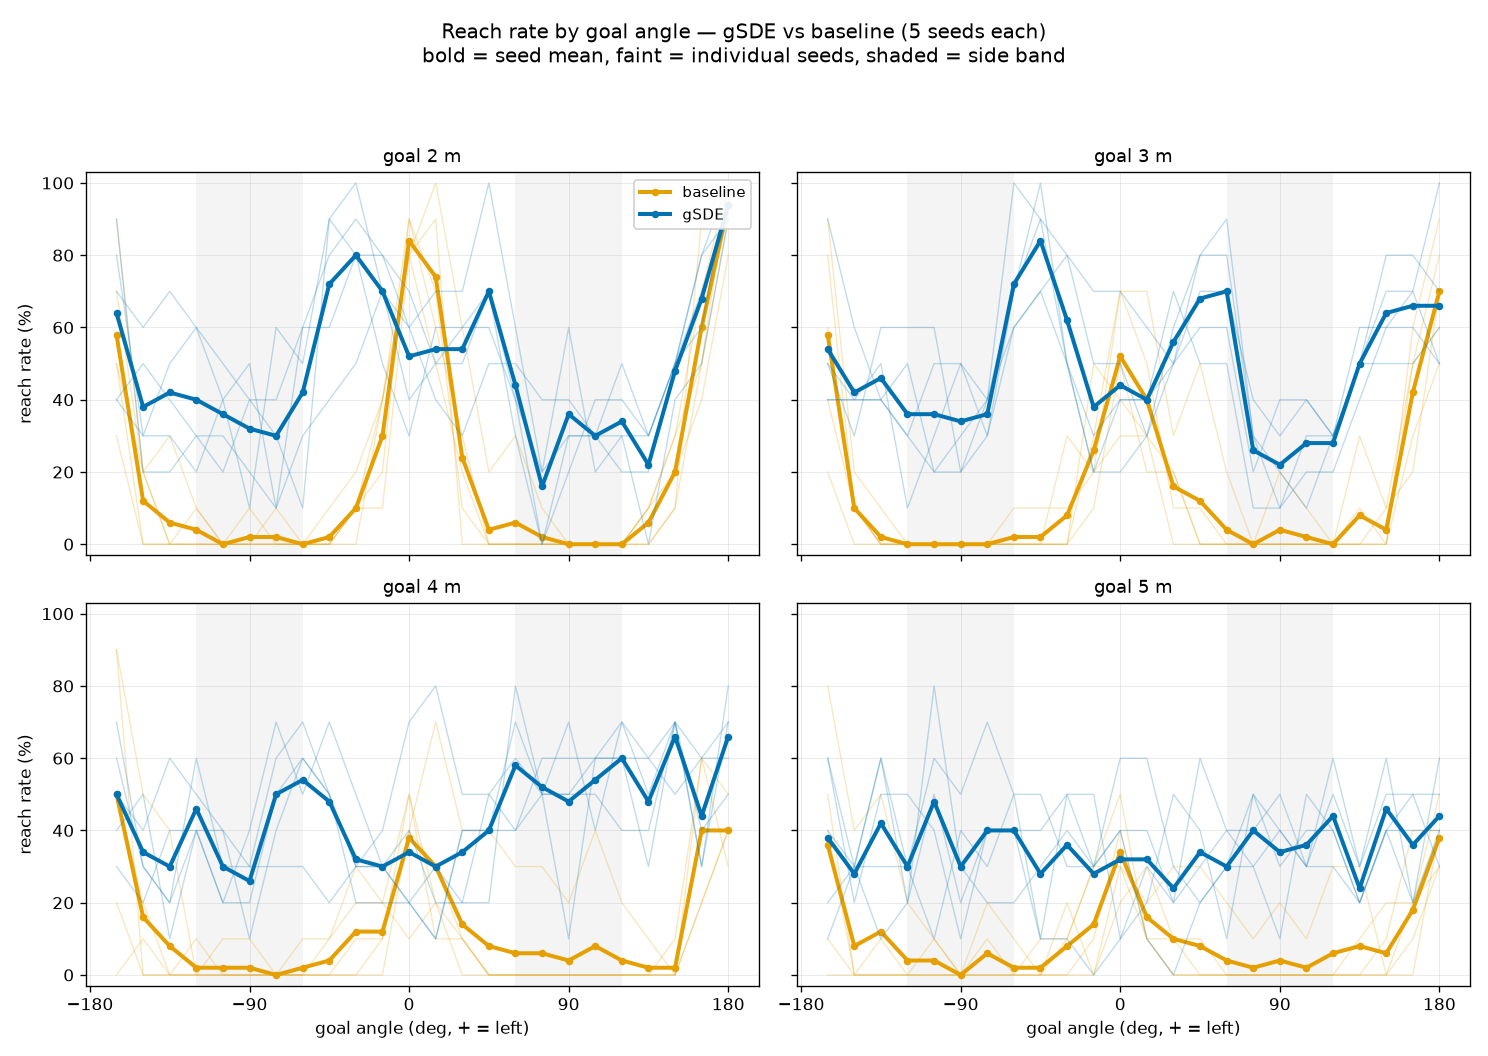
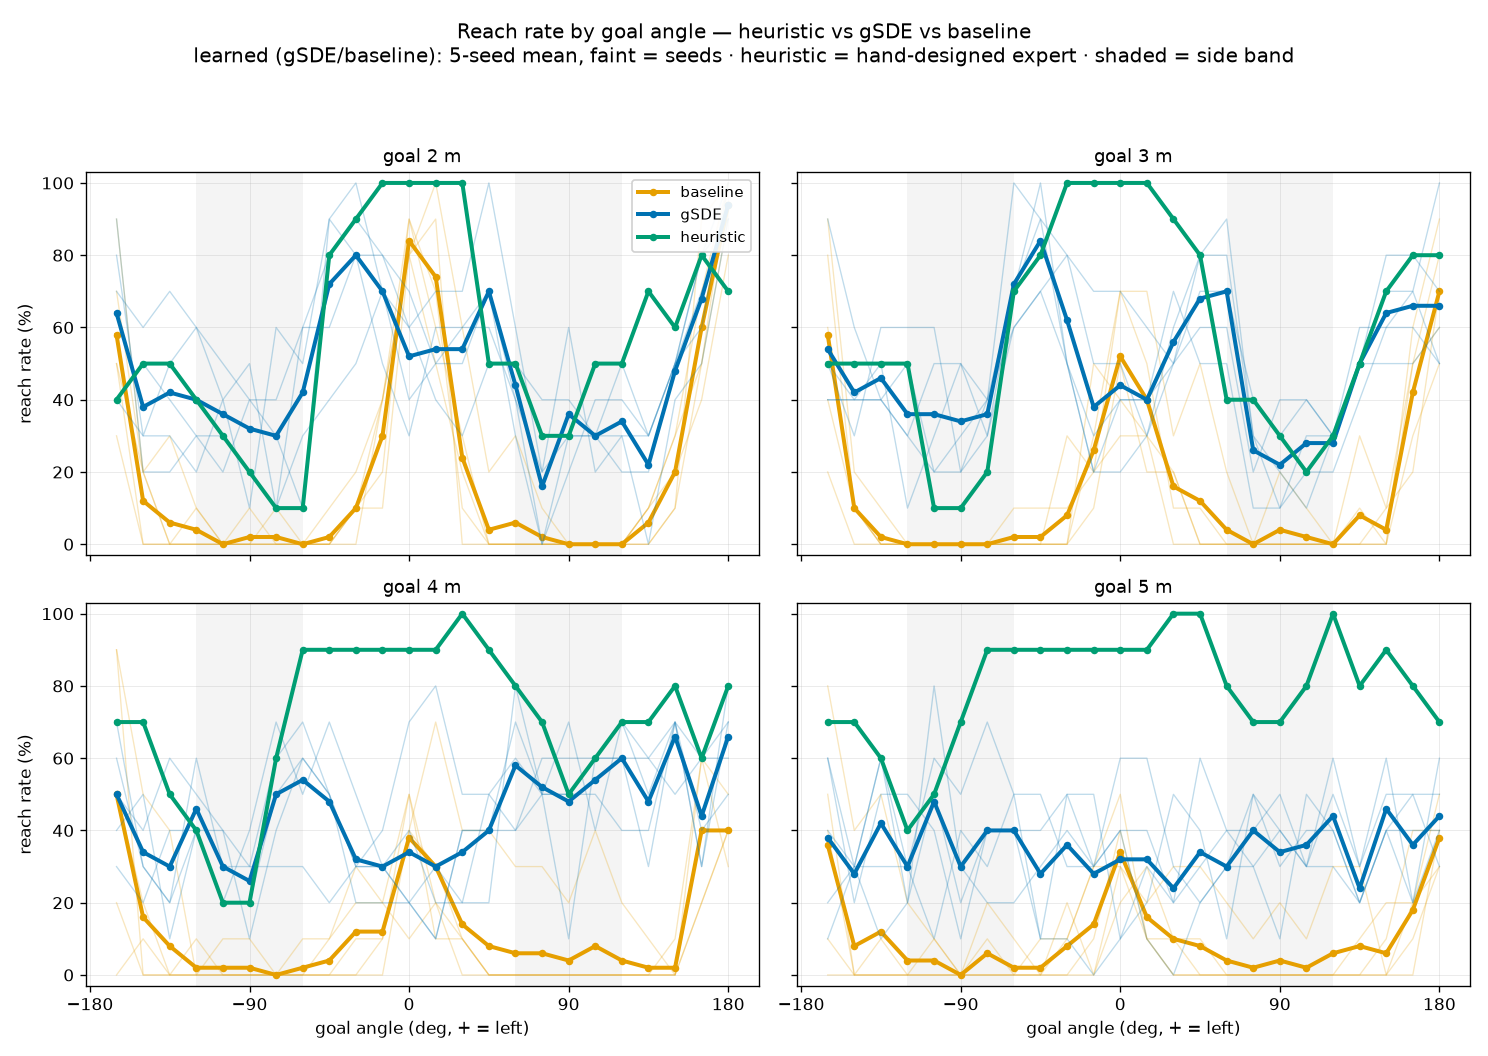
feat: [#25] exp04 분석 확장 — 휴리스틱 3자 비교·baseline fan 대조·run_eval 재현

diff --git a/analysis/exp04_gsde/run_eval.py b/analysis/exp04_gsde/run_eval.py
@@ -1,0 +1,65 @@
+"""exp04 평가 재현 — baseline·gSDE·휴리스틱을 한 격자에서 평가해 eval_results.pkl 생성.
+
+세 그룹을 동일 (거리 × 각도 × 지형 seed) 격자에서 돌린다:
+  - baseline : exp02 seed1~5 (3M)
+  - gSDE     : exp04 seed1~5 (3M)
+  - heuristic: BC의 무학습 expert(goal 방향 조향+전진) — 상한 참조
+
+기본값으로 실행하면 커밋된 eval_results.pkl과 동일한 결과를 재생성한다(전체 ~45분).
+
+  python analysis/exp04_gsde/run_eval.py
+  python analysis/exp04_gsde/run_eval.py --dists 3 --angle-step 90 --seeds 1 --out /tmp/smoke.pkl  # 빠른 확인
+"""
+import argparse
+import sys
+from glob import glob
+from pathlib import Path
+
+HERE = Path(__file__).parent
+ROOT = HERE.parent.parent
+sys.path.insert(0, str(ROOT))
+
+from policy_eval import PolicyEvaluator, save_results   # noqa: E402
+from bc.collect_demos import heuristic                  # noqa: E402
+
+# 그룹별 3M 정책 zip (vecnormalize .pkl은 _steps.zip 패턴에 안 걸림). exp04-00은 2M라 제외.
+BASELINE = sorted(glob(str(ROOT / "experiments/exp02-seed-variance/*/ckpt/*_3000000_steps.zip")))
+GSDE     = sorted(glob(str(ROOT / "experiments/exp04-explore/exp04-0[1-5]-*/ckpt/*_3000000_steps.zip")))
+
+
+def run_name(zip_path):
+    return Path(zip_path).parent.parent.name          # .../<run>/ckpt/<file>.zip → <run>
+
+
+def main():
+    ap = argparse.ArgumentParser()
+    ap.add_argument("--dists", nargs="+", type=float, default=[2, 3, 4, 5])
+    ap.add_argument("--angle-step", type=int, default=15)
+    ap.add_argument("--seeds", type=int, default=10)
+    ap.add_argument("--seed-start", type=int, default=100)
+    ap.add_argument("--out", type=str, default=str(HERE / "eval_results.pkl"))
+    args = ap.parse_args()
+
+    # 이름(그룹#run)→정책. baseline/gSDE는 zip 경로, heuristic은 action_fn 직접.
+    policies, group_names = {}, {"baseline": [], "gSDE": [], "heuristic": []}
+    for label, paths in [("baseline", BASELINE), ("gSDE", GSDE)]:
+        for p in paths:
+            name = f"{label}#{run_name(p)}"
+            policies[name] = p
+            group_names[label].append(name)
+    policies["heuristic#heuristic"] = heuristic        # 무학습 규칙(obs만으로 action)
+    group_names["heuristic"] = ["heuristic#heuristic"]
+
+    print(f"baseline {len(BASELINE)} · gSDE {len(GSDE)} · heuristic 1  "
+          f"| dists={args.dists} step={args.angle_step}° seeds={args.seeds}@{args.seed_start}")
+    ev = PolicyEvaluator(dists=args.dists, angle_step=args.angle_step)
+    seeds = list(range(args.seed_start, args.seed_start + args.seeds))
+    results = ev.evaluate(policies, seeds)
+    ev.close()
+
+    save_results(args.out, results, group_names, ev.dists, ev.angles, seeds)
+    print(f"→ 저장: {args.out}")
+
+
+if __name__ == "__main__":
+    main()

diff --git a/analysis/exp04_gsde/plot_summary.py b/analysis/exp04_gsde/plot_summary.py
@@ -14,7 +14,7 @@ matplotlib.use("Agg")
 import matplotlib.pyplot as plt
 
 HERE = Path(__file__).parent
-COLORS = {"gSDE": "#0072B2", "baseline": "#E69F00"}
+COLORS = {"gSDE": "#0072B2", "baseline": "#E69F00", "heuristic": "#009E73"}
 BANDS = [("front |angle|<=30", 0, 30), ("side 60-120", 60, 120), ("back |angle|>=150", 150, 180)]
 
 
@@ -45,10 +45,11 @@ def plot(d, out=None):
         ax.set_xlabel("goal distance (m)")
         ax.set_xticks(dists)
         ax.grid(alpha=0.25, lw=0.6)
-        ax.set_ylim(-3, 78)
+        ax.set_ylim(-3, 103)
     axes[0].set_ylabel("reach rate (%)")
-    axes[1].legend(loc="upper right", framealpha=0.9, fontsize=10)
-    fig.suptitle("Reach rate by band and distance — gSDE vs baseline (5 seeds, mean ± std)", fontsize=12)
+    axes[1].legend(loc="upper left", framealpha=0.9, fontsize=10)
+    fig.suptitle("Reach rate by band and distance — heuristic vs gSDE vs baseline "
+                 "(learned: 5-seed mean ± std)", fontsize=12)
     fig.tight_layout(rect=[0, 0, 1, 0.95])
     out = out or (HERE / "band_summary.png")
     fig.savefig(out, dpi=120)

diff --git a/analysis/exp04_gsde/plot_eval.py b/analysis/exp04_gsde/plot_eval.py
@@ -16,7 +16,7 @@ import matplotlib.pyplot as plt
 HERE = Path(__file__).parent
 
 # Okabe-Ito CVD-안전 색 (그룹=정체성). 전 스크립트 공통 라벨: gSDE=파랑, baseline=주황.
-COLORS = {"gSDE": "#0072B2", "baseline": "#E69F00"}
+COLORS = {"gSDE": "#0072B2", "baseline": "#E69F00", "heuristic": "#009E73"}
 SIDE = (60, 120)   # 옆 밴드(|각도|) — 핵심 구간 음영
 
 
@@ -65,8 +65,8 @@ def plot(d, out=None):
 
     # 범례(2계열) — 한 번만
     axes[0][0].legend(loc="upper right", framealpha=0.9, fontsize=9)
-    fig.suptitle("Reach rate by goal angle — gSDE vs baseline (5 seeds each)\n"
-                 "bold = seed mean, faint = individual seeds, shaded = side band",
+    fig.suptitle("Reach rate by goal angle — heuristic vs gSDE vs baseline\n"
+                 "learned (gSDE/baseline): 5-seed mean, faint = seeds · heuristic = hand-designed expert · shaded = side band",
                  fontsize=12)
     fig.tight_layout(rect=[0, 0, 1, 0.94])
 
